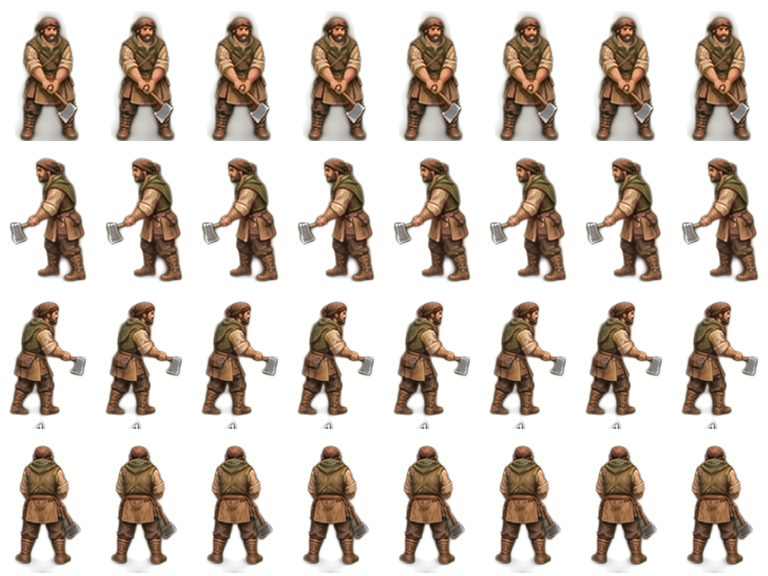
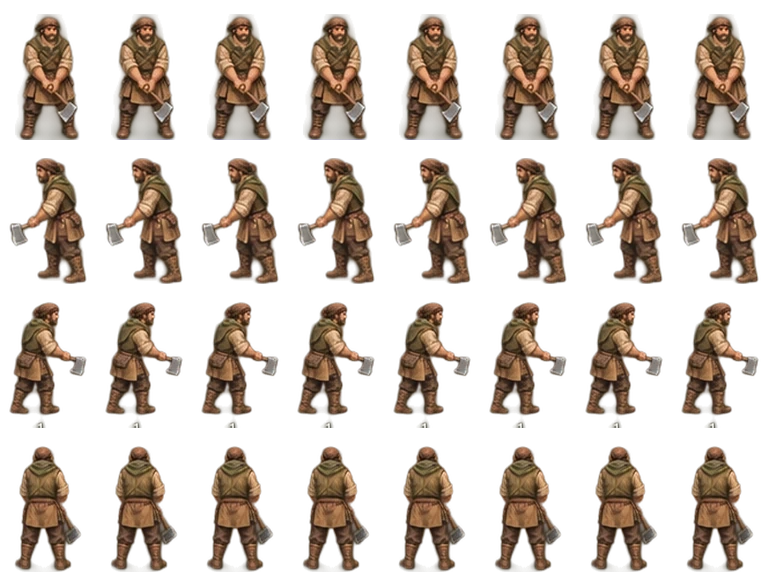
fix(0.5.20): устранить уменьшение лесоруба между растровыми кадрами
* fix(0.5.20): normalize logger height and grounded feet across all sprite frames

* fix(0.5.20): ensure consistent logger height and reject dwarf frames

* fix(0.5.20): ensure consistent logger height and reject dwarf frames

* fix(0.5.20): ensure consistent logger height and reject dwarf frames

* fix(0.5.20): ensure consistent logger height and reject dwarf frames

* fix(0.5.20): ensure consistent logger height and reject dwarf frames

* docs(0.5.20): document sprite-height regression, correction and visual QA limits

diff --git a/index.html b/index.html
@@ -202,7 +202,7 @@ dialog{max-height:85dvh}
   <script defer src="painted-motion.js?v=0.5.13-animated-painted"></script>
   <script defer src="profession-actions.js?v=0.5.14-professions"></script>
   <script defer src="profession-frames.js?v=0.5.18-chop"></script>
-  <script defer src="ui.js?v=0.5.19-logger-raster"></script>
+  <script defer src="ui.js?v=0.5.20-logger-height"></script>
 </head>
 <body>
   <div class="shell" data-panel="none" data-layout="strategy-hud-v3">

diff --git a/ui.js b/ui.js
@@ -59,7 +59,7 @@
   for(const state of LOGGER_STATES){
     const image=new Image();
     image.src=window.StrategyLoggerAtlases?.[state]||
-      ('assets/characters/logger/logger-'+state+'.webp');
+      ('assets/characters/logger/logger-'+state+'.webp?v=0.5.20-height');
     loggerAtlases[state]=image;
   }
   const loggerAtlasReady=state=>{

diff --git a/tests/browser_smoke.py b/tests/browser_smoke.py
@@ -660,8 +660,23 @@ with sync_playwright() as pw:
                 if(a[k]!==b[k]||a[k+1]!==b[k+1]||a[k+2]!==b[k+2]||a[k+3]!==b[k+3])n++;
               return n;
             };
+            // Проверяем не только наличие пикселей, но и реальный рост человека:
+            // в версии 0.5.19 отдельные кадры имели 72–80 px вместо 125.
+            const measure=data=>{
+              let top=144,bottom=0;
+              for(let y=0;y<144;y++)for(let x=0;x<96;x++)
+                if(data[(y*96+x)*4+3]>100){
+                  top=Math.min(top,y);bottom=Math.max(bottom,y+1);
+                }
+              return {height:bottom-top,foot:bottom};
+            };
+            const bounds=cells.map(measure);
             result[name]={width:img.naturalWidth,height:img.naturalHeight,
               minAlpha:Math.min(...cells.map(count)),
+              minVisibleHeight:Math.min(...bounds.map(v=>v.height)),
+              maxVisibleHeight:Math.max(...bounds.map(v=>v.height)),
+              minFoot:Math.min(...bounds.map(v=>v.foot)),
+              maxFoot:Math.max(...bounds.map(v=>v.foot)),
               diffFrame:diff(cells[0],cells[3]),
               diffFacing:diff(cells[0],cells[8])};
           }
@@ -673,6 +688,10 @@ with sync_playwright() as pw:
             item=observed[state]
             assert item['width']==768 and item['height']==576,(name,state,item)
             assert item['minAlpha']>500,(name,state,item)
+            assert item['minVisibleHeight']>=114,(name,state,'гном в кадре',item)
+            assert item['maxVisibleHeight']<=135,(name,state,item)
+            assert item['minFoot']>=130,(name,state,'потеряны ступни',item)
+            assert item['maxFoot']<=144,(name,state,item)
             assert item['diffFacing']>150,(name,state,item)
             if state!='idle':assert item['diffFrame']>80,(name,state,item)
         assert not errors,(name,errors)

diff --git a/docs/LOGGER-HEIGHT-0.5.20.md b/docs/LOGGER-HEIGHT-0.5.20.md
@@ -1,0 +1,19 @@
+# 0.5.20 — исправление роста лесоруба
+
+На реальном мобильном скриншоте лесоруб при некоторых кадрах становился вдвое ниже остальных жителей. Причина в исходном растровом комплекте 0.5.19: высота фигуры внутри ячейки 96×144 была непостоянной.
+
+| Состояние | Минимальный рост в исходном кадре | После коррекции |
+|---|---:|---:|
+| Ожидание | 121 px | около 126 px |
+| Ходьба | 76 px | около 126 px |
+| Рубка | 101 px | около 126 px |
+| Перенос брёвен | 72 px | около 126 px |
+
+Выполнена **офлайн-нормализация вертикального размера уже нарисованного растра**, с сохранением оси ступней на высоте около 140 px. Игровая сетка, порядок направлений и 8-кадровые циклы не изменились. В рантайме продолжает выбираться готовый WebP-кадр без скелета, векторного инструмента и процедурных частей.
+
+- Четыре WebP-атласа обновлены в `assets/characters/logger/`.
+- Сброс кеша для загрузки WebP и JS на мобильном устройстве.
+- Добавлена регрессионная проверка: **все 32 кадра каждого состояния** обязаны содержать фигуру высотой не менее 114 px с видимыми ступнями.
+- Сохранения и сроки добычи не изменены. Автономный `play.html` встраивает новые атласы при сборке.
+
+**Художественное ограничение:** это коррекция масштаба уже существующих рисунков. Она устраняет визуальное уменьшение, но не исправляет различия телосложения, одежды и перспективы между отдельными исходниками. В некоторых кадрах намеренно применено вертикальное масштабирование, которое может требовать последующей полноценной художественной перерисовки. Проверка реальной читаемости на Android остаётся обязательной.
